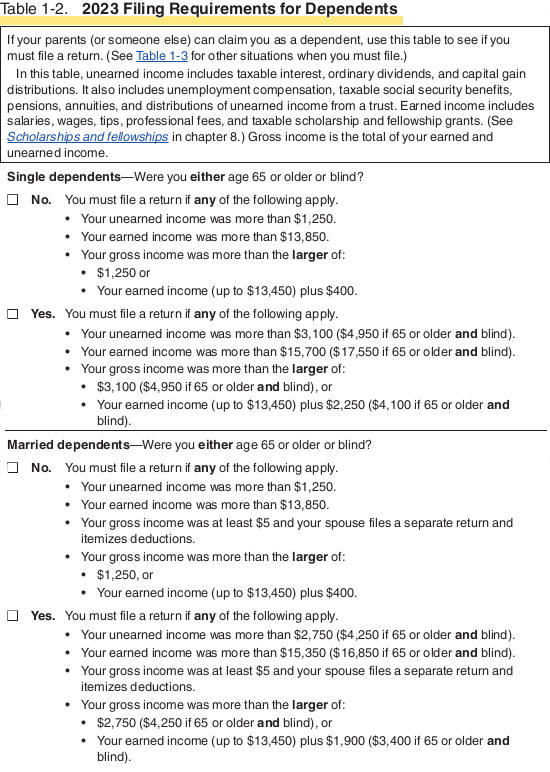
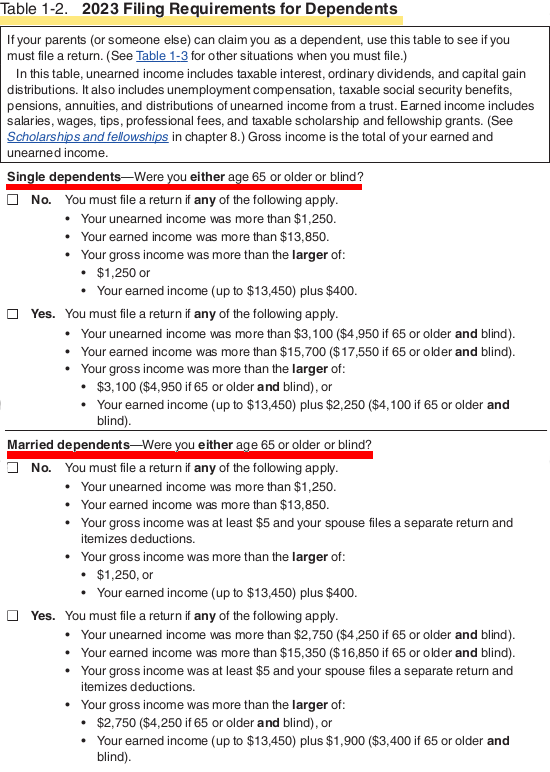
Testing new table format

Changed region(s): [[0.0, 0.5596, 0.68, 0.6218], [0.0, 0.2176, 0.6491, 0.2487]]

diff --git a/_pages/001-pub17.tax.guide.md b/_pages/001-pub17.tax.guide.md
@@ -161,11 +161,23 @@ layout: post
 
 - **Do I Have To File A Return?**
 
+#### Table 1.1
 |Who must file|
 |:-:|
 |![Table 1-1](/irs.ea/assets/images/images.pub.17/table.1.1.png)|
+
+#### Table 1.2
+|Who must file|
+|:-:|
 |![Table 1-2](/irs.ea/assets/images/images.pub.17/table.1.2.png)|
+|YES:<br>UN-earned income $\geq$ 1,250 (For interest, dividends, cap. gains, IRA distribtuions)<br>Earned income $\geq$ \$13,850|
+
+
+#### Table 1.3
+|Who must file|
+|:-:|
 |![Table 1-3](/irs.ea/assets/images/images.pub.17/table.1.3.png)|
+
 
 > **NOTE**: US and Puerto Rican residents must file even if you don't owe tax.  
 {: .block-tip }
@@ -348,9 +360,6 @@ layout: post
   - NR = Non-residents
 
 <hr class="red">
-
-- Requirements for an Electronic filing & returns
-  - See: Table 1-2 for Requirements
 
 
   - 1.12 Self-Select PIN
